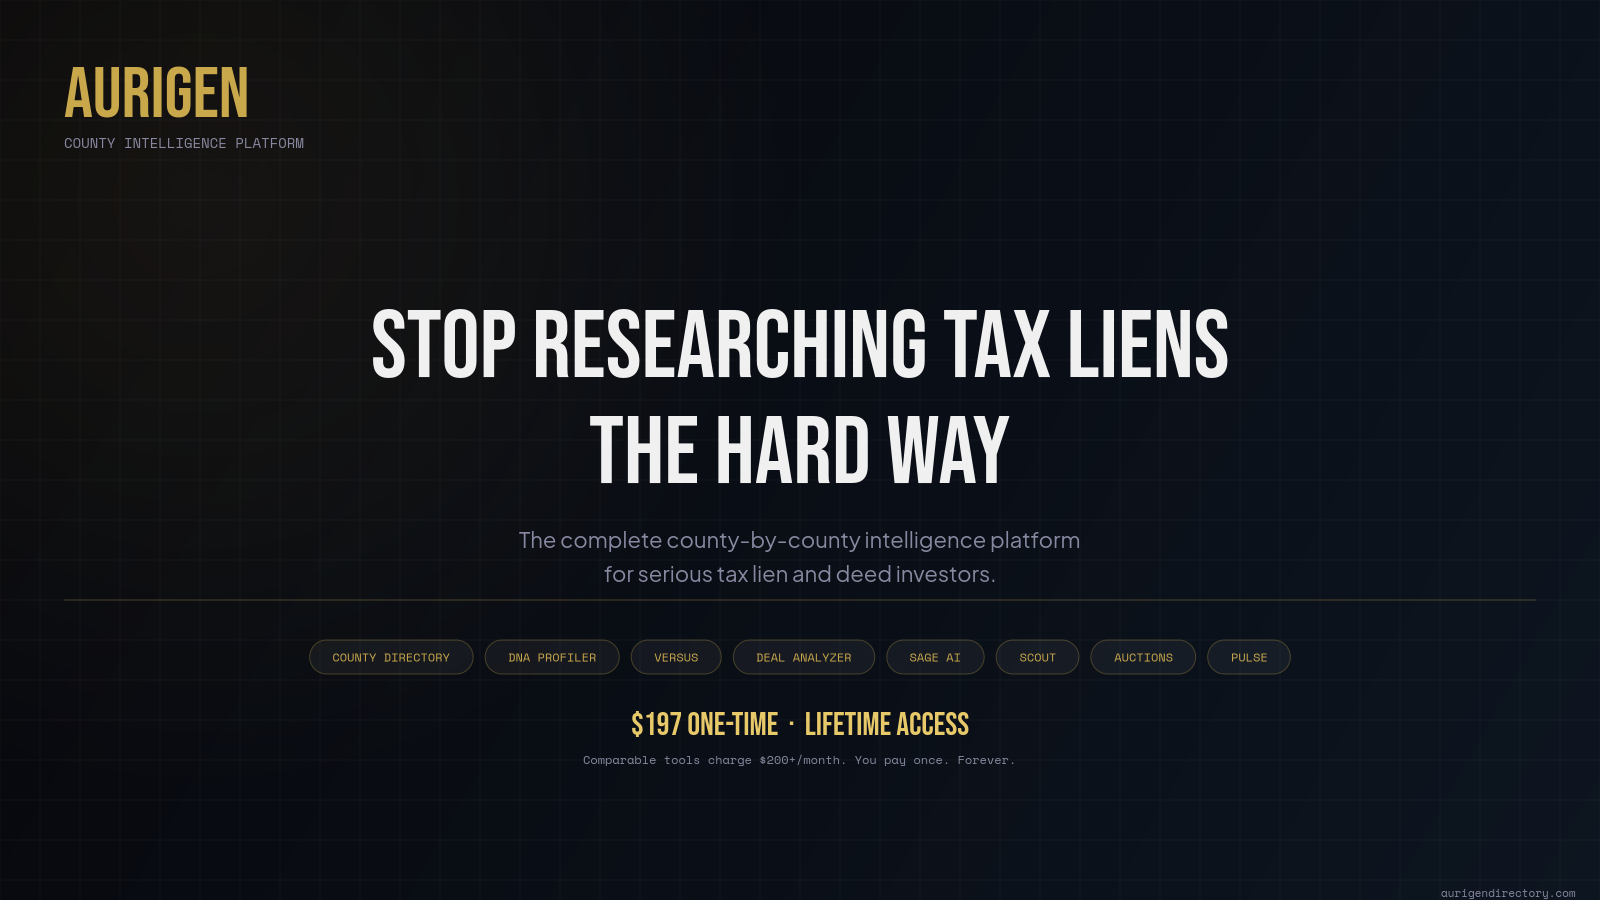
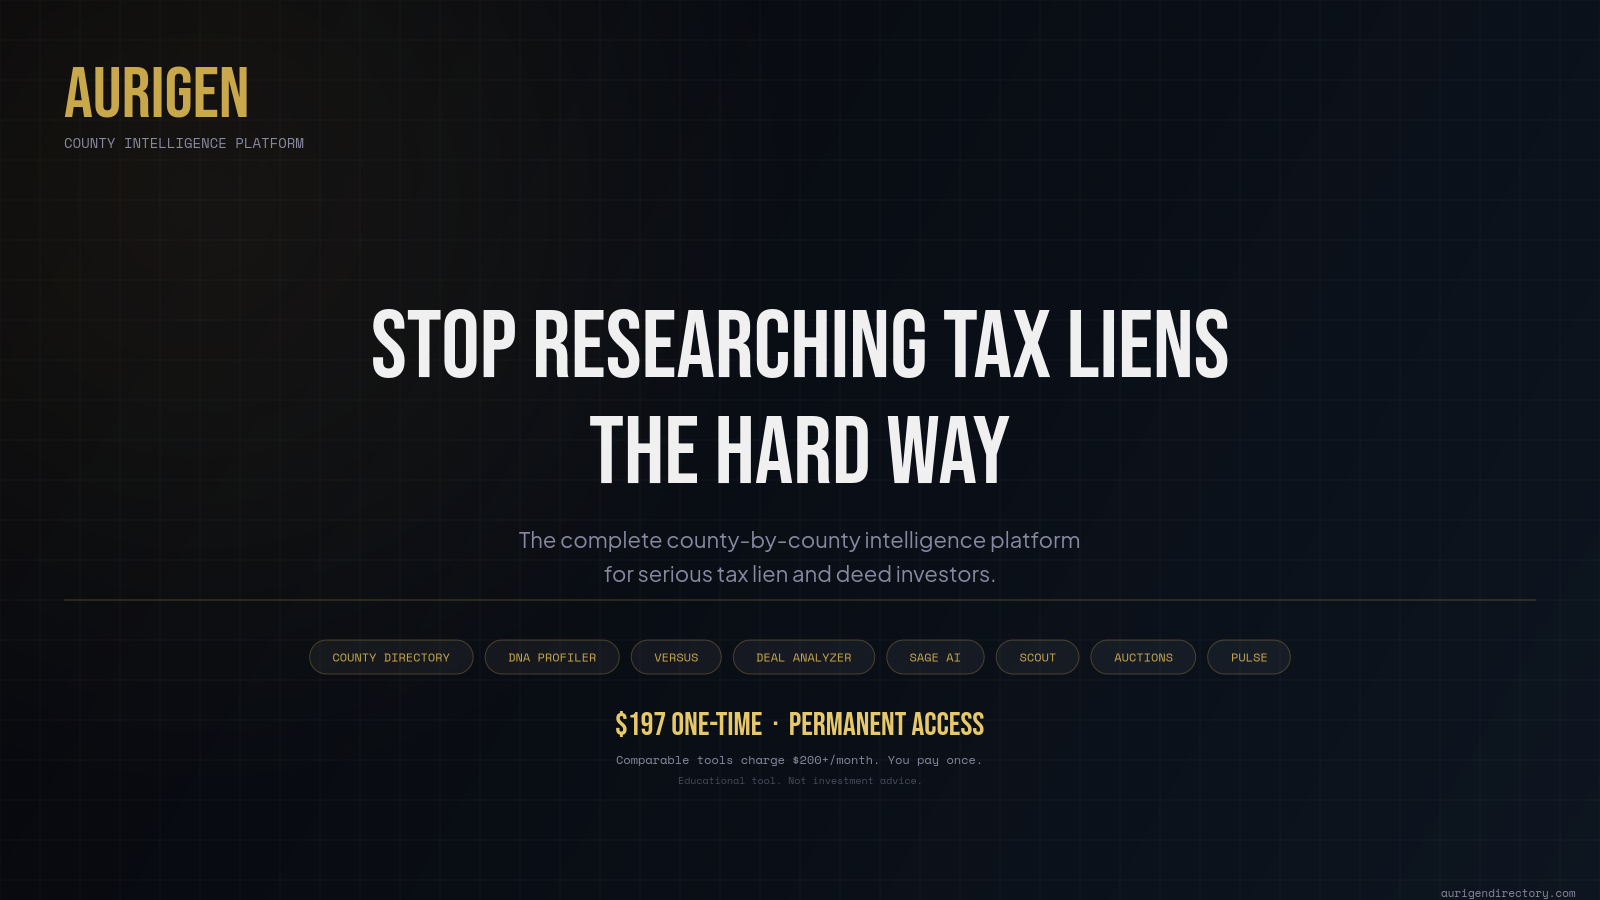
Lex FTC compliance fixes: badges, Stripe image, disclaimer
- DNA Profiler badge: $197/yr elsewhere → Included (no defensible comparable)
- Versus badge: $297/yr elsewhere → Included (no defensible comparable)
- Stripe image: LIFETIME ACCESS → PERMANENT ACCESS
- Stripe image: removed "Forever" from value anchor
- Stripe image: added FTC disclaimer footer
- Total value line ($1,500+/yr) remains defensible from 6 priced tools

https://claude.ai/code/session_01Gtu3rENy3MC2APoXtrbwZ1

Changed region(s): [[0.375, 0.7778, 0.625, 0.8711]]

diff --git a/aurigen-stripe-product-v3.html b/aurigen-stripe-product-v3.html
@@ -162,6 +162,13 @@
     letter-spacing: 0.05em;
   }
 
+  .disclaimer {
+    font-family: 'Space Mono', monospace;
+    font-size: 10px;
+    color: rgba(136,136,160,0.5);
+    margin-top: 8px;
+  }
+
   /* Bottom-right URL watermark */
   .watermark {
     position: absolute;
@@ -203,8 +210,9 @@
       <span class="pill">AUCTIONS</span>
       <span class="pill">PULSE</span>
     </div>
-    <div class="price">$197 ONE-TIME · LIFETIME ACCESS</div>
-    <div class="price-sub">Comparable tools charge $200+/month. You pay once. Forever.</div>
+    <div class="price">$197 ONE-TIME · PERMANENT ACCESS</div>
+    <div class="price-sub">Comparable tools charge $200+/month. You pay once.</div>
+    <div class="disclaimer">Educational tool. Not investment advice.</div>
   </div>
 
   <div class="watermark">aurigendirectory.com</div>

diff --git a/warroom-billion.html b/warroom-billion.html
@@ -3069,12 +3069,12 @@
             <div class="value-card">
               <div class="value-card-name">DNA Investor Profiler</div>
               <div class="value-card-desc">6 questions. Get your investor archetype. Every tool adapts to you.</div>
-              <div class="value-card-badge">$197/yr elsewhere</div>
+              <div class="value-card-badge">Included</div>
             </div>
             <div class="value-card">
               <div class="value-card-name">Versus Comparison</div>
               <div class="value-card-desc">Side-by-side state comparison. Pick your market with real data.</div>
-              <div class="value-card-badge">$297/yr elsewhere</div>
+              <div class="value-card-badge">Included</div>
             </div>
             <div class="value-card">
               <div class="value-card-name">Deal Analyzer</div>